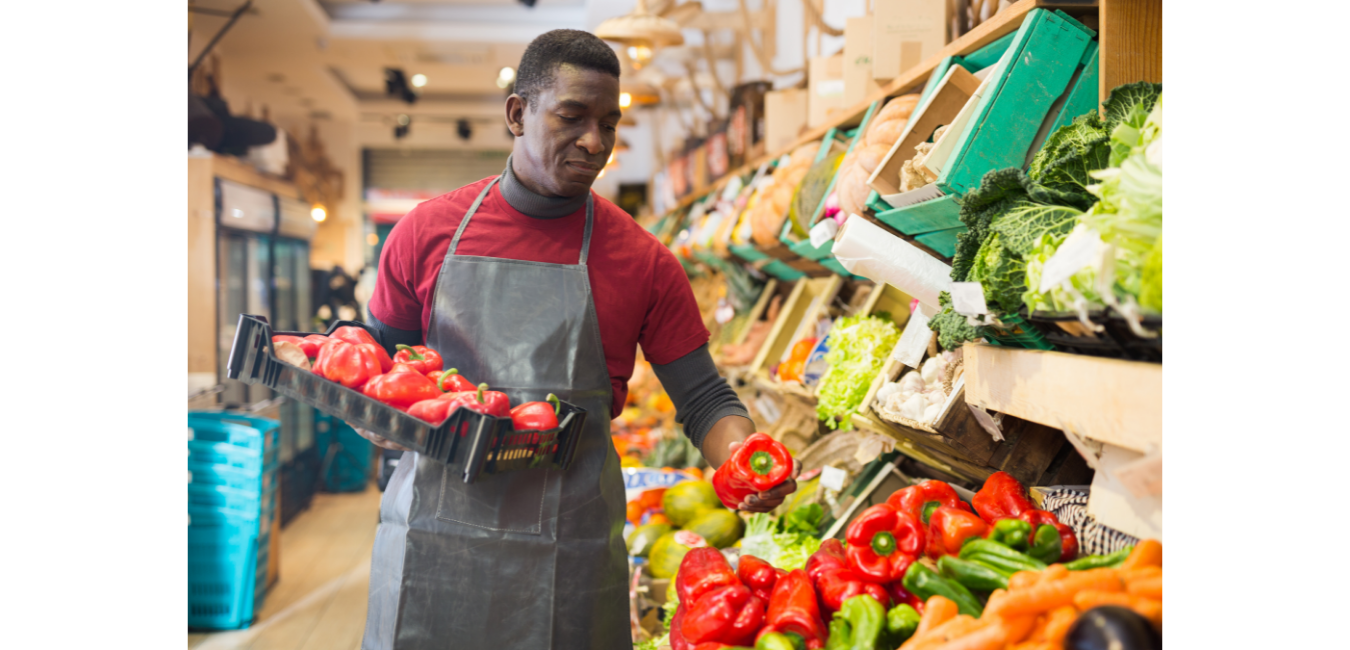
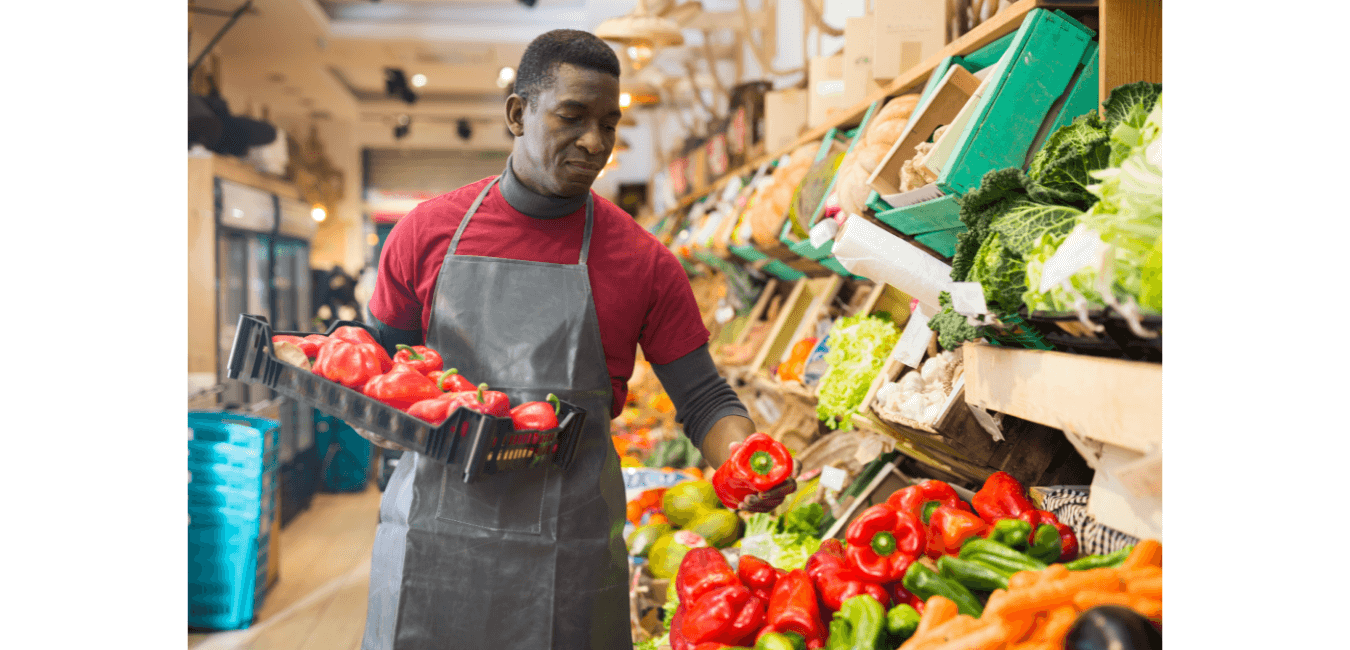
minified images for faster load times

Changed region(s): [[0.1556, 0.6462, 0.2178, 0.6769], [0.5911, 0.3077, 0.6222, 0.3385], [0.28, 0.6154, 0.3111, 0.6462]]

diff --git a/src/components/reset_password/ResetPassword.js b/src/components/reset_password/ResetPassword.js
@@ -41,7 +41,6 @@ export const ResetPassword =({setAccess:setResetAccess})=>{
               })
               .catch((error) => {
                 setServerError(error.response.data.message);
-                console.log(error.response.data.message);
               });
         }
     })

diff --git a/src/components/misc/SignUpBase.js b/src/components/misc/SignUpBase.js
@@ -1,5 +1,5 @@
 import React from "react";
-import Person from "images/sign-up.png";
+import Person from "images/wallpaper3.png";
 import tw from "twin.macro";
 import SignUpSVG from "components/misc/SignupSVG";
 
